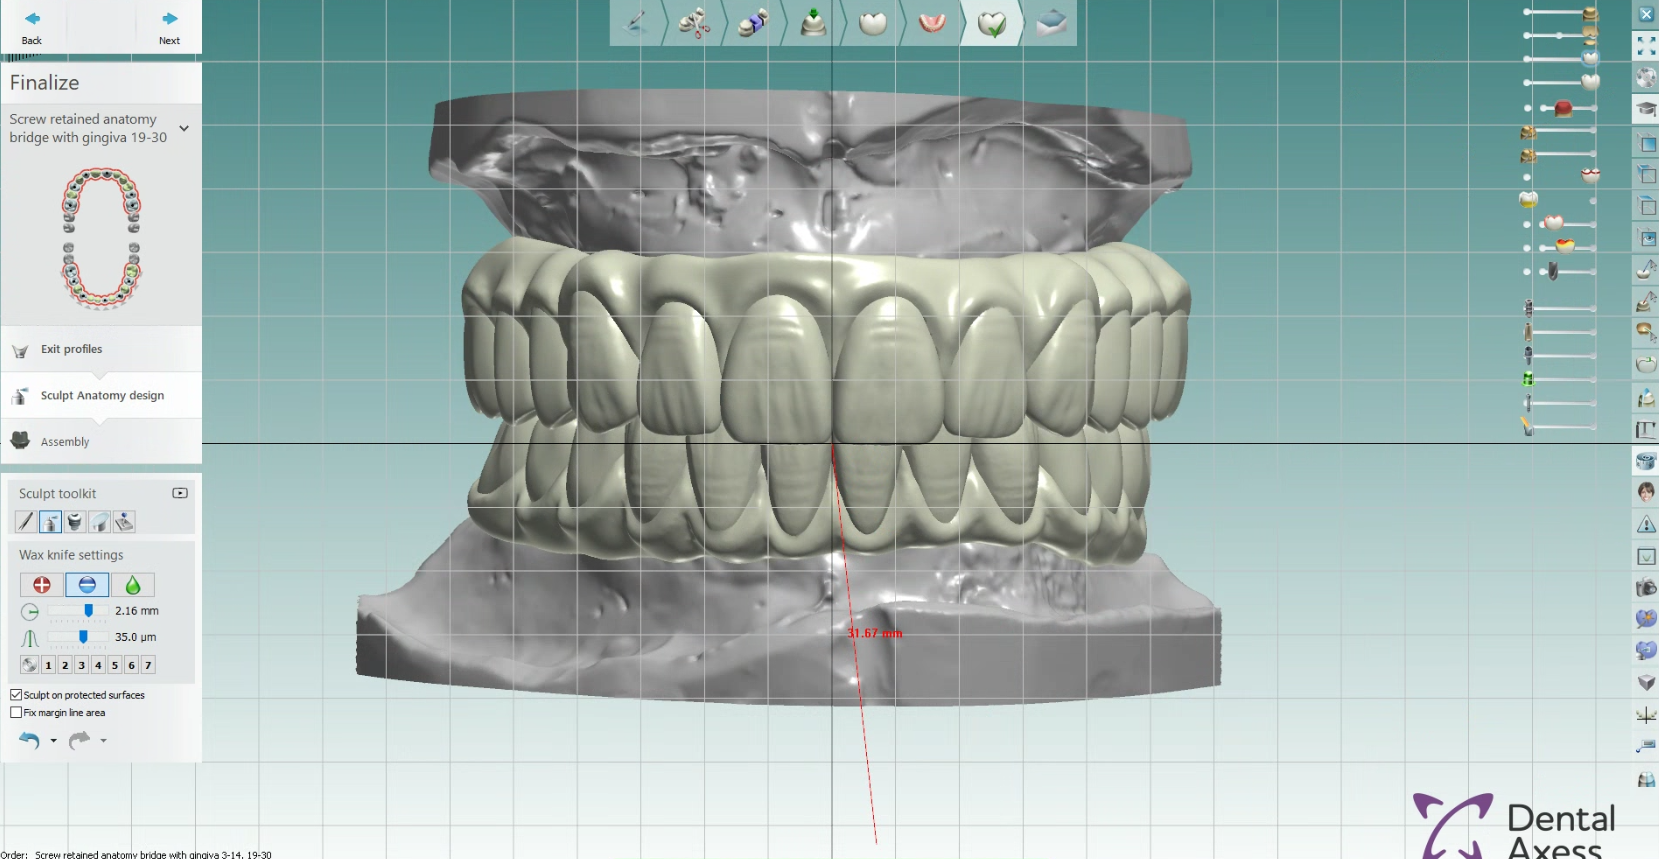
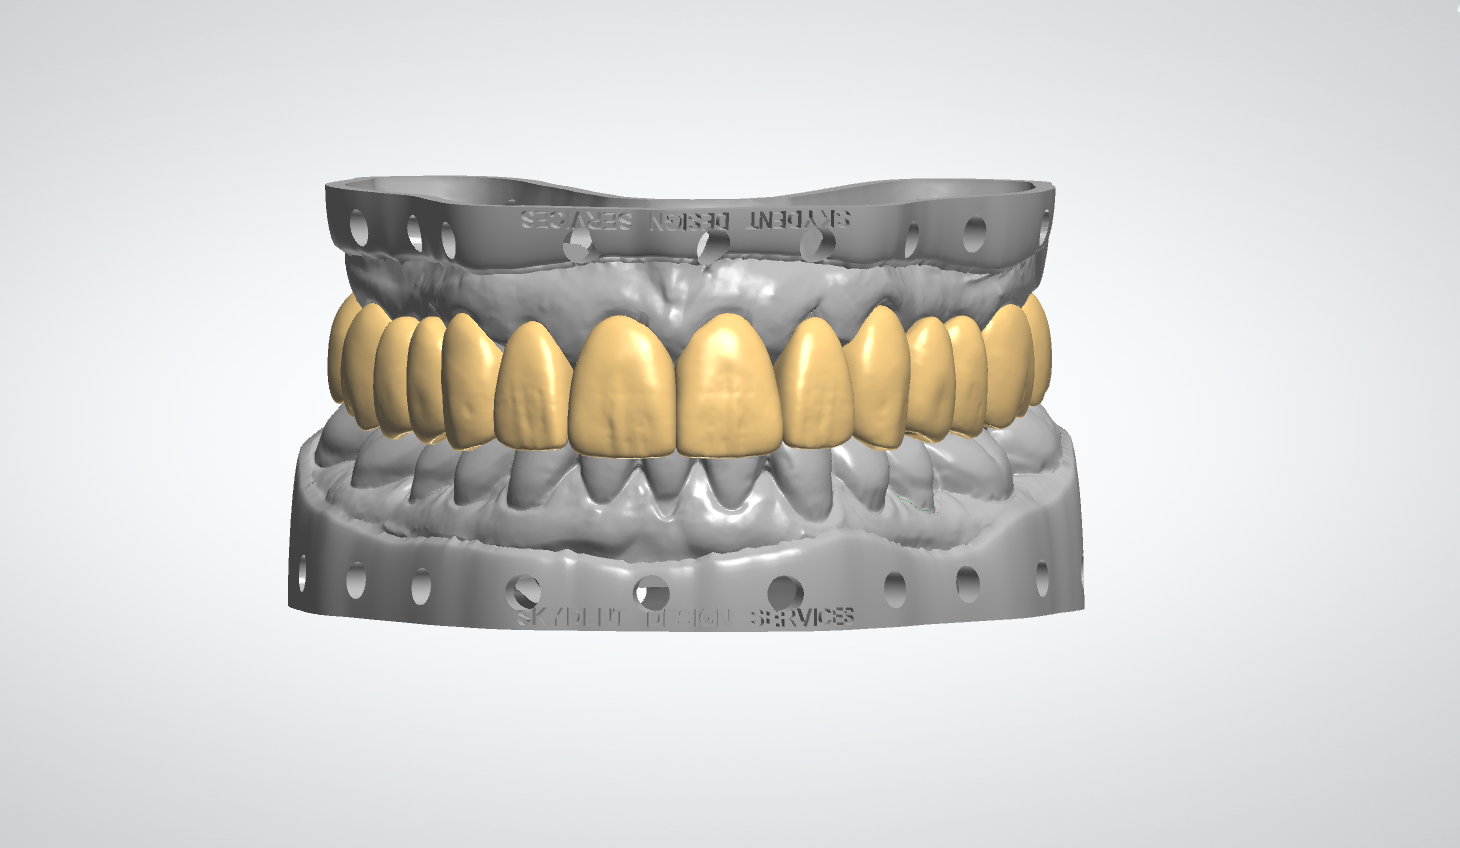
changes login slider images

diff --git a/src/pages/designer/Hd.js b/src/pages/designer/Hd.js
@@ -157,7 +157,7 @@ export default function Hd() {
                                         to={item.href}
                                         key={item.key}
                                         className={`px-4 py-2 rounded-lg font-medium transition-all duration-200 flex items-center space-x-2 text-sm ${activePage === item.key
-                                            ? "bg-blue-600 text-white border border-blue-500"
+                                            ? "bg-blue-600 text-white"
                                             : "text-gray-300 hover:text-white hover:bg-gray-800"
                                             }`}
                                     >
@@ -250,30 +250,30 @@ export default function Hd() {
                                 </button>
 
                                 {dropdownOpen && (
-                                    <div className="absolute right-0 mt-2 w-64 bg-gray-800 rounded-xl shadow-lg py-2 border border-gray-700 z-50">
+                                    <div className="absolute right-0 mt-2 w-56 sm:w-64 bg-gray-800 rounded-xl shadow-2xl py-2 border border-gray-700 z-50 cursor-pointer backdrop-blur-sm">
                                         <div className="px-4 py-3 border-b border-gray-700">
-                                            <div className="text-sm font-semibold text-white">
+                                            <div className="text-white font-semibold truncate text-sm sm:text-base">
                                                 {designer?.name || 'Designer'}
                                             </div>
-                                            <div className="text-xs text-gray-400 truncate mt-1">
-                                                {designer?.email || 'designer@example.com'}
+                                            <div className="text-gray-400 text-xs sm:text-sm truncate mt-1">
+                                                {designer?.email || ''}
                                             </div>
                                         </div>
                                         <div className="py-1">
                                             <Link
                                                 to="/designer/profile"
-                                                className="flex items-center px-4 py-2 text-sm text-gray-300 hover:bg-gray-700 transition-colors duration-200"
+                                                className="block px-4 py-3 text-gray-300 hover:bg-gray-700 hover:text-white transition-all duration-200 flex items-center text-sm sm:text-base"
                                                 onClick={() => setDropdownOpen(false)}
                                             >
-                                                <FontAwesomeIcon icon={faUser} className="w-4 h-4 mr-3 text-gray-400" />
-                                                Profile Settings
+                                                <FontAwesomeIcon icon={faUser} className="w-4 h-4 mr-3" />
+                                                Profile
                                             </Link>
                                             <button
                                                 onClick={logout}
-                                                className="flex items-center w-full px-4 py-2 text-sm text-red-400 hover:bg-red-900/20 transition-colors duration-200"
+                                                className="block w-full text-left px-4 py-3 text-red-400 hover:bg-red-600 hover:text-white transition-all duration-200 flex items-center text-sm sm:text-base"
                                             >
                                                 <FontAwesomeIcon icon={faSignOutAlt} className="w-4 h-4 mr-3" />
-                                                Sign Out
+                                                Logout
                                             </button>
                                         </div>
                                     </div>

diff --git a/src/pages/designer/OrderDetails.js b/src/pages/designer/OrderDetails.js
@@ -185,7 +185,7 @@ export default function OrderDetails() {
             <>
                 <Hd />
                 <main
-                    className={`min-h-screen flex flex-col items-center justify-center ${theme === "light" ? "bg-gray-50 text-gray-900" : "bg-gray-900 text-white"
+                    className={`min-h-screen flex flex-col items-center justify-center ${theme === "light" ? "bg-gradient-to-br from-slate-50 to-blue-50 text-gray-900" : "bg-gray-900 text-white"
                         }`}
                 >
                     <Loder status="show" />
@@ -199,7 +199,7 @@ export default function OrderDetails() {
             <>
                 <Hd />
                 <main
-                    className={`min-h-screen flex flex-col items-center justify-center ${theme === "light" ? "bg-gray-50 text-gray-900" : "bg-gray-900 text-white"
+                    className={`min-h-screen flex flex-col items-center justify-center ${theme === "light" ? "bg-gradient-to-br from-slate-50 to-blue-50 text-gray-900" : "bg-gray-900 text-white"
                         }`}
                 >
                     <FontAwesomeIcon icon={faTimesCircle} className="text-red-500 text-6xl mb-4" />
@@ -228,7 +228,7 @@ export default function OrderDetails() {
                     {/* Header */}
                     <div
                         className={`rounded-2xl shadow-sm border px-8 py-4 flex flex-col sm:flex-row justify-between items-start sm:items-center gap-2 ${theme === "light"
-                            ? "bg-gray-200 border-gray-200"
+                            ? "bg-gradient-to-br from-slate-50 to-blue-50 border-gray-200"
                             : "bg-gray-800 border-gray-700"
                             }`}
                     >
@@ -257,7 +257,7 @@ export default function OrderDetails() {
                         {/* Left */}
                         <div
                             className={`col-span-2 rounded-2xl shadow-xl border p-8 ${theme === "light"
-                                ? "bg-gray-200 border-gray-200"
+                                ? "bg-gradient-to-br from-slate-50 to-blue-50 border-gray-200"
                                 : "bg-gray-800 border-gray-700"
                                 }`}
                         >
@@ -426,7 +426,7 @@ function InitialFileDownload({ order, theme }) {
 
     return (
         <div
-            className={`rounded-2xl shadow-md border p-6 transition-all duration-300 ${isLight ? "bg-gray-200 border-gray-200" : "bg-gray-800 border-gray-200"
+            className={`rounded-2xl shadow-md border p-6 transition-all duration-300 ${isLight ? "bg-gradient-to-br from-slate-50 to-blue-50 border-gray-200" : "bg-gray-800 border-gray-700"
                 } p-6`}
         >
             {/* Header */}
@@ -521,7 +521,7 @@ function FileHistoryTable({ title, icon, files, fileType, theme, onDeleteFile })
 
     return (
         <div className={`rounded-2xl shadow-md border p-6 ${theme === "light"
-            ? "bg-gray-50 border-gray-200"
+            ? "bg-gradient-to-br from-slate-50 to-blue-50 border-gray-200"
             : "bg-gray-800 border-gray-700"
             }`}>
             <h3 className="text-xl font-semibold mb-4 flex items-center gap-2">
@@ -588,7 +588,7 @@ function StatusUpdater({ theme, selectedStatus, setSelectedStatus, handleStatusU
     return (
         <div
             className={`rounded-2xl shadow-md border p-6 ${theme === "light"
-                ? "bg-gray-200 border-gray-200"
+                ? "bg-gradient-to-br from-slate-50 to-blue-50 border-gray-200"
                 : "bg-gray-800 border-gray-700"
                 }`}
         >
@@ -666,7 +666,7 @@ function FileUploader({ theme, onFileUpload }) {
     return (
         <div
             className={`rounded-2xl shadow-md border p-6 ${theme === "light"
-                ? "bg-gray-200 border-gray-200"
+                ? "bg-gradient-to-br from-slate-50 to-blue-50 border-gray-200"
                 : "bg-gray-800 border-gray-700"
                 }`}
         >

diff --git a/src/pages/user/Hd.js b/src/pages/user/Hd.js
@@ -150,7 +150,7 @@ export default function Hd() {
                                         to={item.href}
                                         key={item.key}
                                         className={`px-4 py-2 rounded-lg font-medium transition-all duration-200 flex items-center space-x-2 text-sm ${activePage === item.key
-                                            ? "bg-blue-600 text-white border border-blue-500"
+                                            ? "bg-blue-600 text-white"
                                             : "text-gray-300 hover:text-white hover:bg-gray-800"
                                             }`}
                                     >
@@ -243,30 +243,30 @@ export default function Hd() {
                                 </button>
 
                                 {dropdownOpen && (
-                                    <div className="absolute right-0 mt-2 w-64 bg-gray-800 rounded-xl shadow-lg py-2 border border-gray-700 z-50">
+                                    <div className="absolute right-0 mt-2 w-56 sm:w-64 bg-gray-800 rounded-xl shadow-2xl py-2 border border-gray-700 z-50 cursor-pointer backdrop-blur-sm">
                                         <div className="px-4 py-3 border-b border-gray-700">
-                                            <div className="text-sm font-semibold text-white">
+                                            <div className="text-white font-semibold truncate text-sm sm:text-base">
                                                 {user?.name || 'User'}
                                             </div>
-                                            <div className="text-xs text-gray-400 truncate mt-1">
-                                                {user?.email || 'user@example.com'}
+                                            <div className="text-gray-400 text-xs sm:text-sm truncate mt-1">
+                                                {user?.email || ''}
                                             </div>
                                         </div>
                                         <div className="py-1">
                                             <Link
                                                 to="/user/profile"
-                                                className="flex items-center px-4 py-2 text-sm text-gray-300 hover:bg-gray-700 transition-colors duration-200"
+                                                className="block px-4 py-3 text-gray-300 hover:bg-gray-700 hover:text-white transition-all duration-200 flex items-center text-sm sm:text-base"
                                                 onClick={() => setDropdownOpen(false)}
                                             >
-                                                <FontAwesomeIcon icon={faUser} className="w-4 h-4 mr-3 text-gray-400" />
-                                                Profile Settings
+                                                <FontAwesomeIcon icon={faUser} className="w-4 h-4 mr-3" />
+                                                Profile
                                             </Link>
                                             <button
                                                 onClick={logout}
-                                                className="flex items-center w-full px-4 py-2 text-sm text-red-400 hover:bg-red-900/20 transition-colors duration-200"
+                                                className="block w-full text-left px-4 py-3 text-red-400 hover:bg-red-600 hover:text-white transition-all duration-200 flex items-center text-sm sm:text-base"
                                             >
                                                 <FontAwesomeIcon icon={faSignOutAlt} className="w-4 h-4 mr-3" />
-                                                Sign Out
+                                                Logout
                                             </button>
                                         </div>
                                     </div>

diff --git a/src/pages/user/Login.js b/src/pages/user/Login.js
@@ -4,6 +4,7 @@ import { faEye, faEyeSlash, faUser, faLock } from "@fortawesome/free-solid-svg-i
 import { UserContext } from "../../Context/UserContext";
 import { useNavigate } from 'react-router-dom';
 import config from '../../config';
+import { motion } from 'framer-motion';
 
 export default function Login() {
 
@@ -29,7 +30,11 @@ export default function Login() {
     const [activeIndex, setActiveIndex] = useState(0);
     const [isSubmitting, setIsSubmitting] = useState(false);
 
-    const images = ["/img/bg0.png", "/img/bg1.png", "/img/bg2.jpg"];
+    const images = [
+        "/img/bg0.jpg",
+        "/img/bg1.png",
+        "/img/bg2.png",
+    ];
 
     const handleChange = (e) => {
         const { name, type, value, checked } = e.target;
@@ -88,7 +93,12 @@ export default function Login() {
 
     return (
         <section className="min-h-screen flex items-center justify-center bg-[#87CEEB] px-4 py-8">
-            <div className="w-full max-w-8xl flex flex-col lg:flex-row items-center justify-center gap-8 lg:gap-12">
+            <motion.div
+                initial={{ opacity: 0, y: 40 }}
+                animate={{ opacity: 1, y: 0 }}
+                transition={{ duration: 0.8 }}
+                className="relative w-full max-w-8xl flex flex-col lg:flex-row items-center justify-center gap-8 lg:gap-12"
+            >
                 {/* Carousel - Now on Right */}
                 <div className="w-full lg:w-3/5 max-w-4xl order-1 lg:order-1">
                     <div className="relative rounded-2xl overflow-hidden shadow-2xl">
@@ -296,7 +306,7 @@ export default function Login() {
                         </div>
                     </div>
                 </div>
-            </div>
+            </motion.div>
         </section>
     );
 }

diff --git a/src/pages/designer/Login.js b/src/pages/designer/Login.js
@@ -4,6 +4,7 @@ import { faEye, faEyeSlash, faUser, faLock } from "@fortawesome/free-solid-svg-i
 import { DesignerContext } from '../../Context/DesignerContext';
 import { useNavigate } from "react-router-dom";
 import config from '../../config';
+import { motion } from 'framer-motion';
 
 export default function Login() {
     const { setDesigner } = useContext(DesignerContext);
@@ -76,9 +77,9 @@ export default function Login() {
 
 
     const images = [
-        "/img/bg0.png",
+        "/img/bg0.jpg",
         "/img/bg1.png",
-        "/img/bg2.jpg",
+        "/img/bg2.png",
     ];
 
     const nextSlide = () => {
@@ -96,7 +97,12 @@ export default function Login() {
 
     return (
         <section className="min-h-screen flex items-center justify-center bg-[#87CEEB] px-4 py-8">
-            <div className="w-full max-w-8xl flex flex-col lg:flex-row items-center justify-center gap-8 lg:gap-12">
+            <motion.div
+                initial={{ opacity: 0, y: 40 }}
+                animate={{ opacity: 1, y: 0 }}
+                transition={{ duration: 0.8 }}
+                className="relative w-full max-w-8xl flex flex-col lg:flex-row items-center justify-center gap-8 lg:gap-12"
+            >
                 {/* Carousel - Now on Right */}
                 <div className="w-full lg:w-3/5 max-w-7xl order-1 lg:order-1">
                     <div className="relative rounded-2xl overflow-hidden shadow-2xl">
@@ -304,7 +310,7 @@ export default function Login() {
                         </div>
                     </div>
                 </div>
-            </div>
+            </motion.div>
         </section>
     );
 }

diff --git a/src/pages/admin/Login.js b/src/pages/admin/Login.js
@@ -8,7 +8,6 @@ import { useNavigate } from "react-router-dom";
 import config from '../../config';
 
 export default function Login() {
-  const apiUrl = process.env.base_url;
   useEffect(() => {
     const data = localStorage.getItem('admin') ? localStorage.getItem('admin') : "";
     const token = localStorage.getItem('token') ? localStorage.getItem('token') : "";

diff --git a/src/pages/user/Home.js b/src/pages/user/Home.js
@@ -5,6 +5,7 @@ import Datatable from "./Datatable";
 import Dashboard from "./Dashboard";
 import { ThemeContext } from "../../Context/ThemeContext";
 import { fetchWithAuth } from '../../utils/userapi';
+import { motion } from 'framer-motion';
 
 export default function Home() {
     const { theme } = useContext(ThemeContext);
